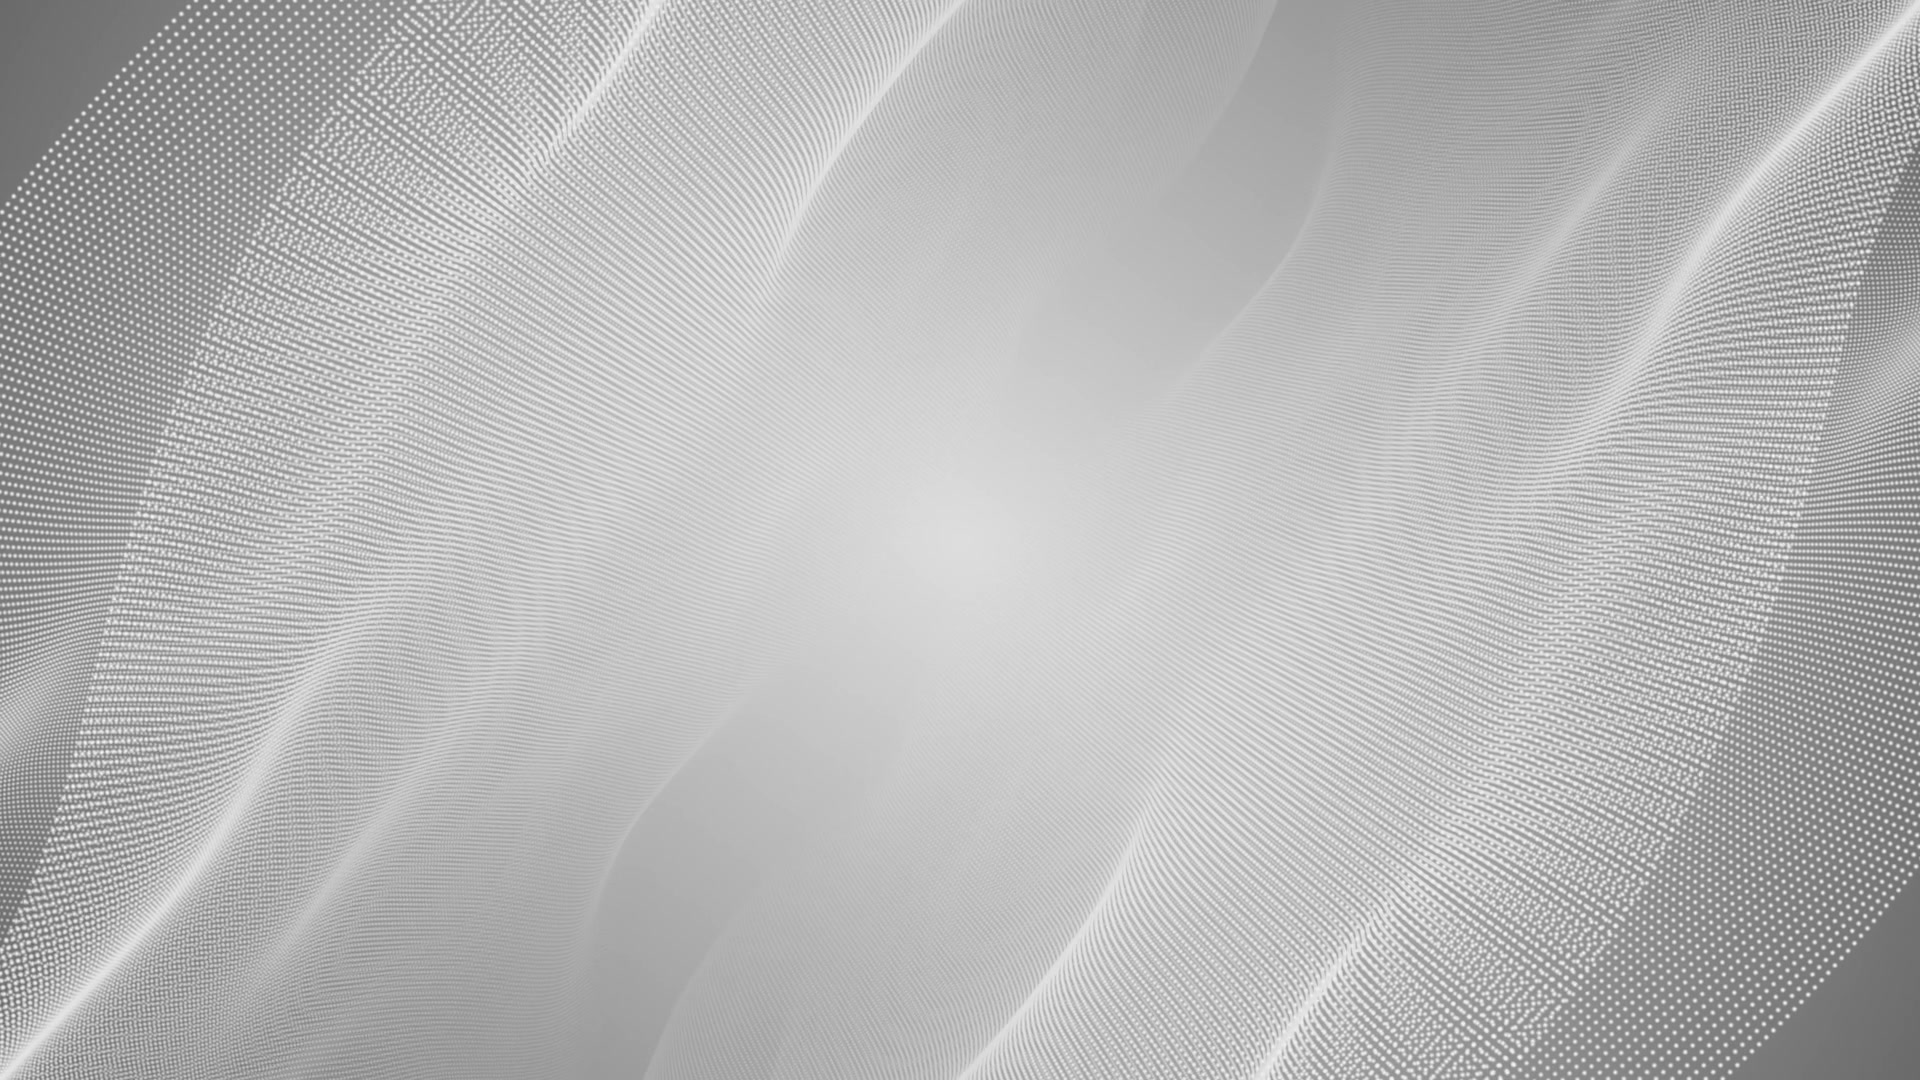
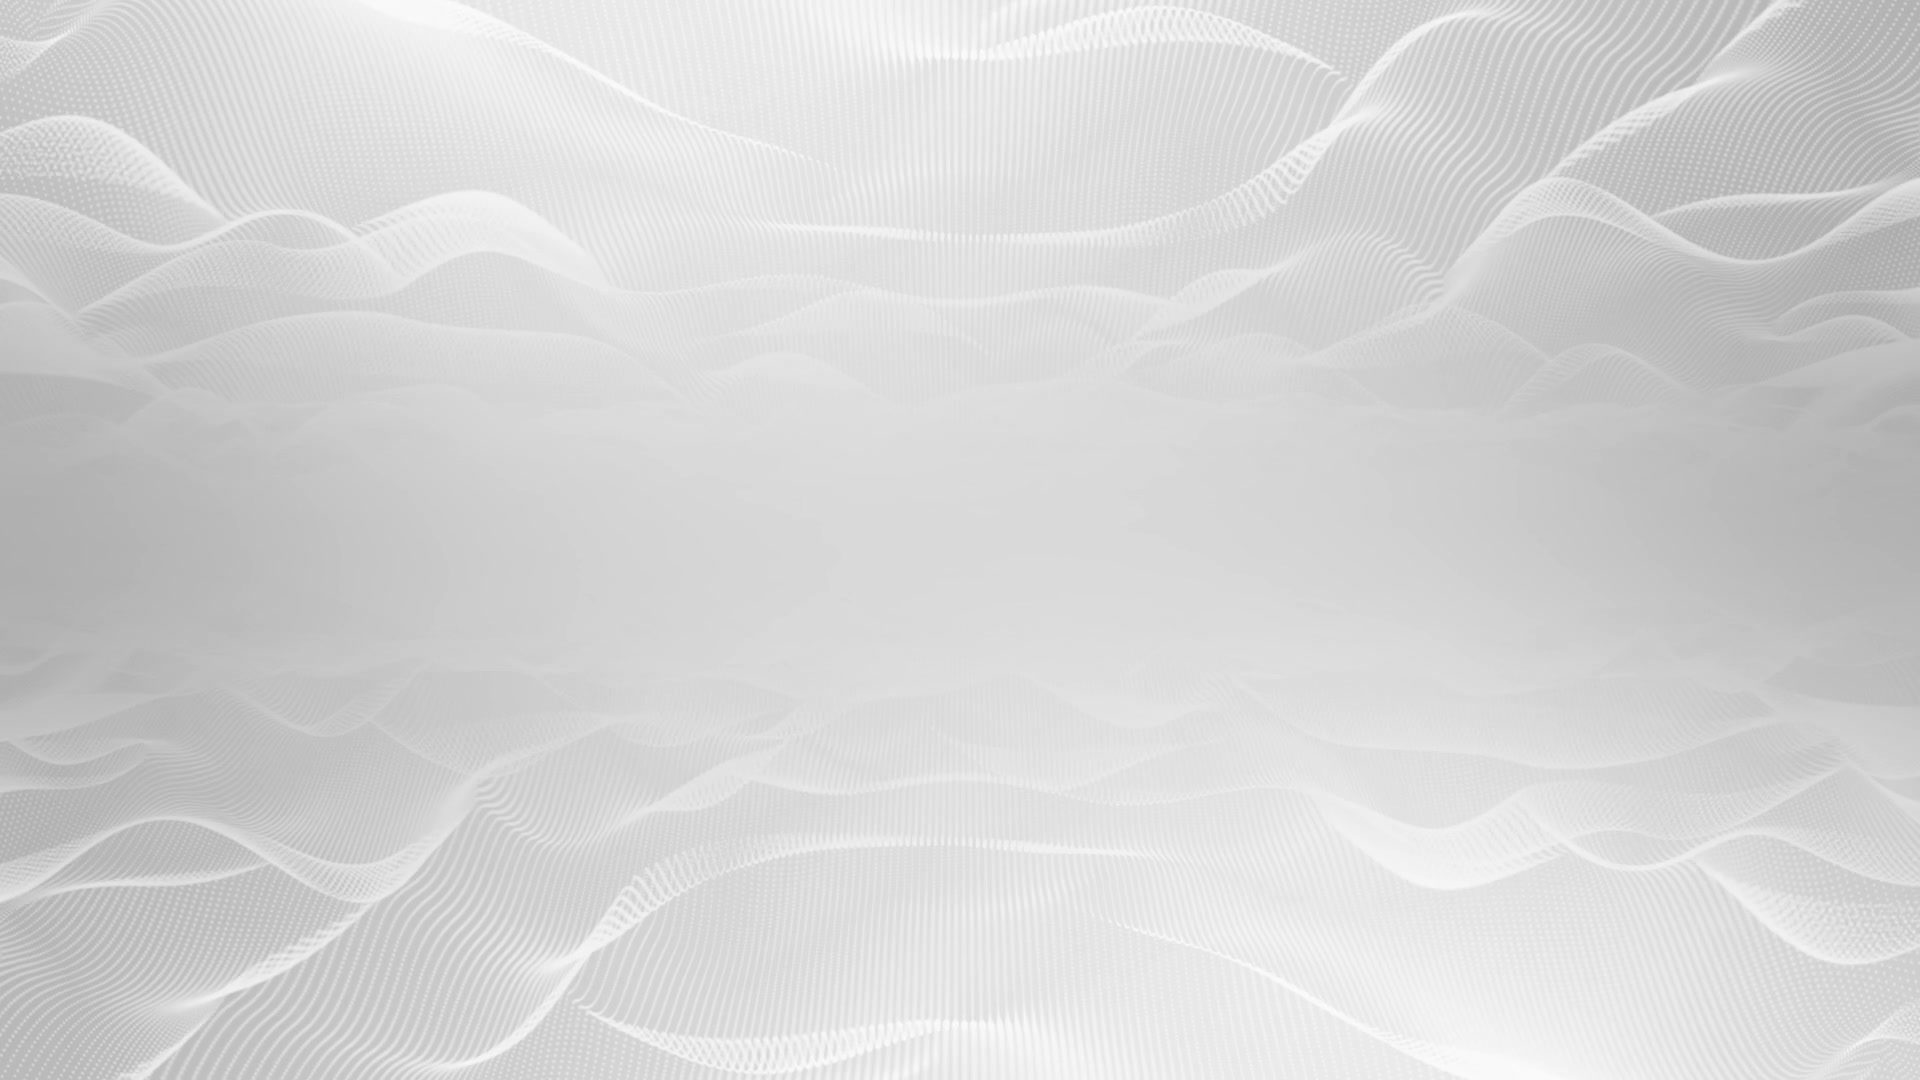
Tune herosection look and sync poster to the video frame.
Slightly darken/gray the background video and regenerate the poster from the same source.

diff --git a/app/globals.css b/app/globals.css
@@ -768,22 +768,34 @@ body:has(.hero-fullbleed) .site-header .btn-primary {
   inset: 0;
   z-index: 0;
   pointer-events: none;
-  background: #ececef url("/herosection-poster.jpg") center / cover no-repeat;
+  background: #ececef;
+}
+
+.hero-fullbleed-bg::before {
+  content: "";
+  position: absolute;
+  inset: 0;
+  z-index: 0;
+  background: url("/herosection-poster.jpg") center / cover no-repeat;
+  filter: grayscale(0.4) brightness(0.92) contrast(1.02);
 }
 
 .hero-fullbleed-video {
+  position: relative;
+  z-index: 1;
   width: 100%;
   height: 100%;
   object-fit: cover;
   object-position: center center;
   display: block;
   opacity: 1;
-  filter: grayscale(0.25) brightness(1.05) contrast(1.02);
+  filter: grayscale(0.4) brightness(0.92) contrast(1.02);
 }
 
 .hero-fullbleed-fade {
   position: absolute;
   inset: 0;
+  z-index: 2;
   background: linear-gradient(
     180deg,
     transparent 0%,
